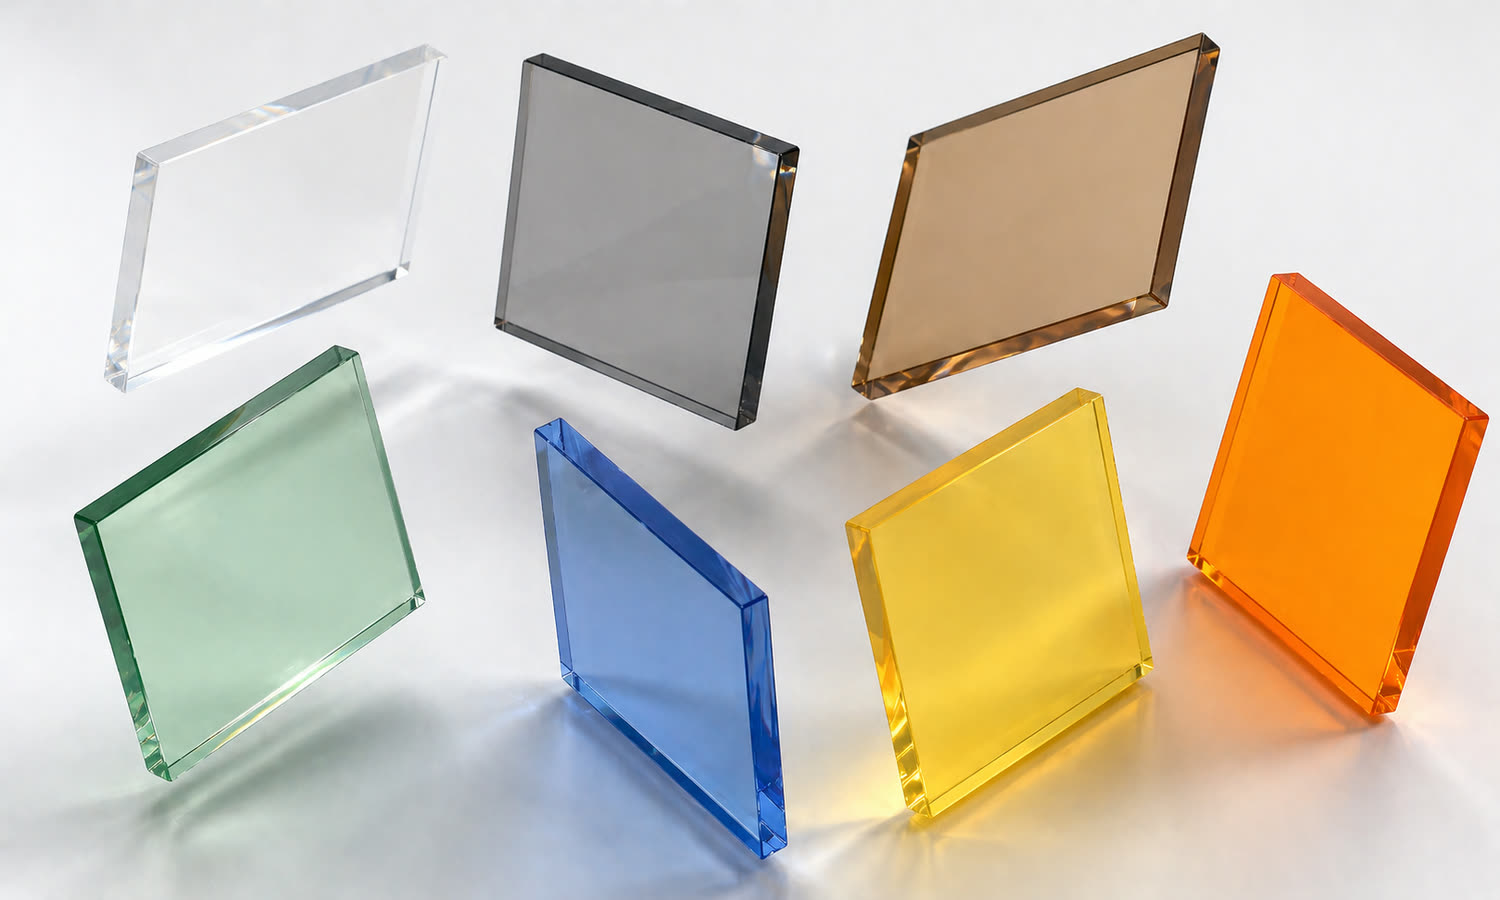
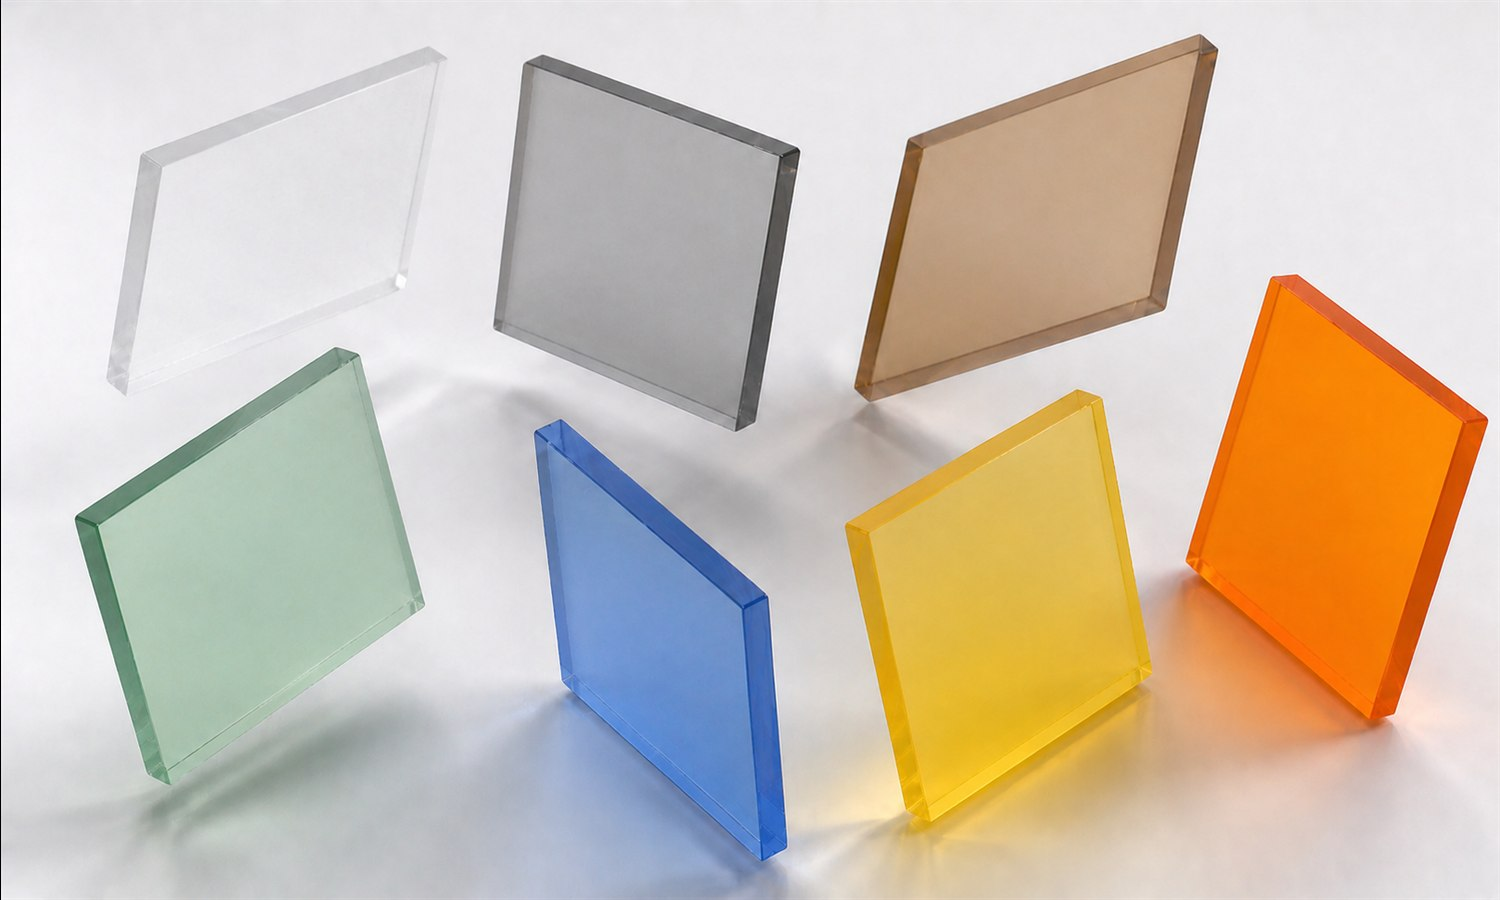
Replace solid sheet sample photos with more realistic shots
Three new photos of polycarbonate samples (better lighting, more
realistic depth of field) replace the existing 43/44/46.jpg. 45.jpg
(close-up of edges) is kept as is — different composition. Each new
file is 1500x900 JPEG q88. Add ?v=2 to the three IMG src in solid.html
so browsers refetch instead of serving cached versions.

diff --git a/solid.html b/solid.html
@@ -141,10 +141,10 @@
           </div>
         </div>
         <div class="product-overview-images overview-images-grid animate-on-scroll" style="align-self:start;margin-top:68px;">
-          <img loading="lazy" src="img/43.jpg" alt="Solid sheets">
-          <img loading="lazy" src="img/44.jpg" alt="Solid Polycarbonate Sheets">
+          <img loading="lazy" src="img/43.jpg?v=2" alt="Solid sheets">
+          <img loading="lazy" src="img/44.jpg?v=2" alt="Solid Polycarbonate Sheets">
           <img loading="lazy" src="img/45.jpg" alt="Solid sheets colors">
-          <img loading="lazy" src="img/46.jpg" alt="Solid sheets standing">
+          <img loading="lazy" src="img/46.jpg?v=2" alt="Solid sheets standing">
         </div>
       </div>
     </div>